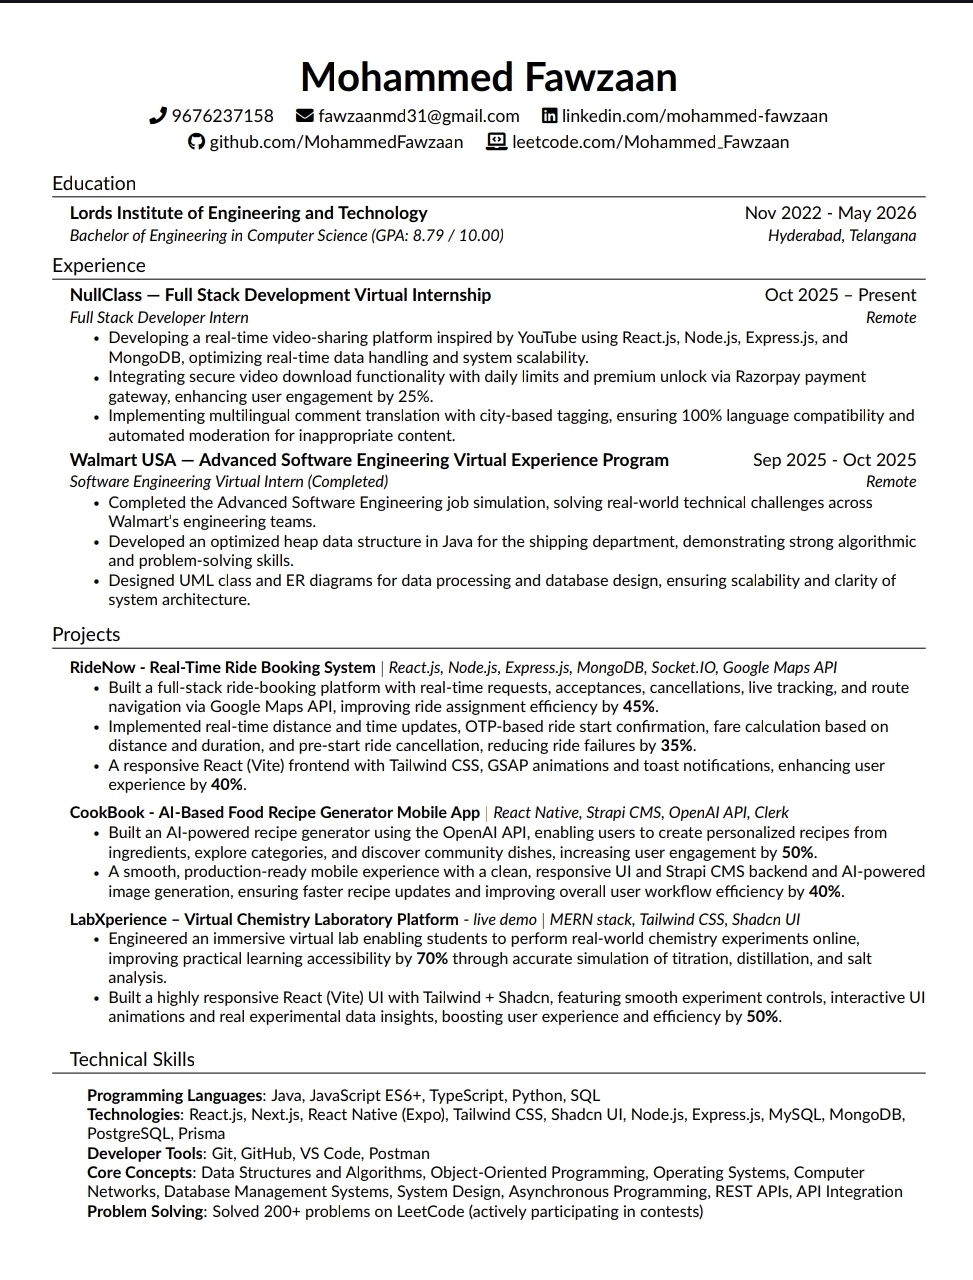
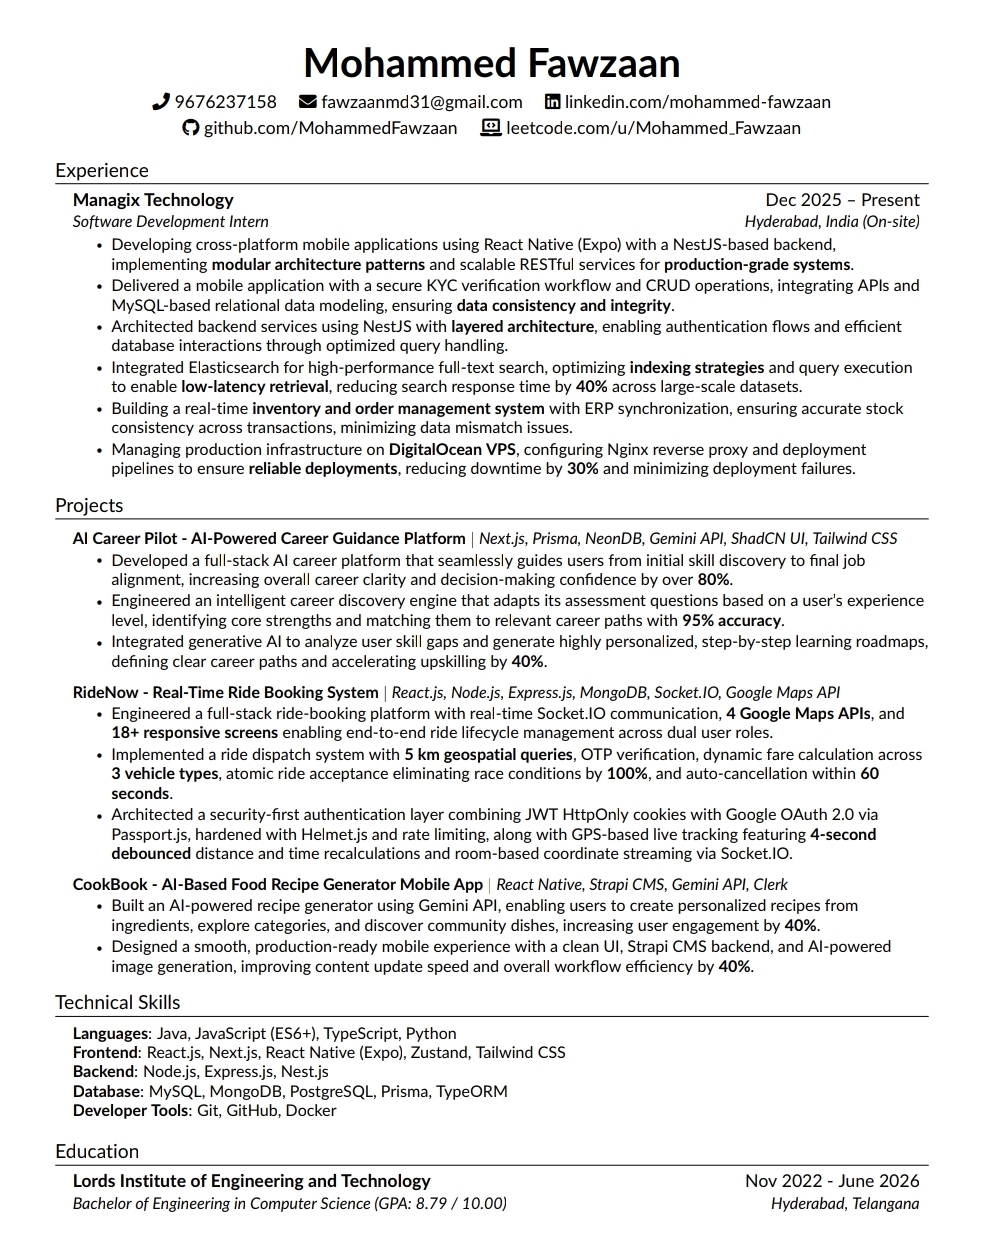
Portfolio Updated.

Changed region(s): [[0.0308, 0.0311, 0.9558, 0.9633]]

diff --git a/components/NavBar.tsx b/components/NavBar.tsx
@@ -19,9 +19,8 @@ export default function NavBar({ navLinks }: NavBarProps) {
 
   return (
     <motion.header
-      className={`fixed top-0 w-full z-50 transition-all duration-300 ${
-        isScrolled ? "bg-background/85 backdrop-blur-md shadow-sm py-4" : "bg-transparent py-6"
-      }`}
+      className={`fixed top-0 w-full z-50 transition-all duration-300 ${isScrolled ? "bg-background border-b border-border shadow-sm py-4" : "bg-background py-6"
+        }`}
       initial={{ y: -100 }}
       animate={{ y: 0 }}
       transition={{ duration: 0.5 }}
@@ -45,8 +44,12 @@ export default function NavBar({ navLinks }: NavBarProps) {
         </nav>
 
         {/* Mobile Toggle */}
-        <button className="lg:hidden text-primary-text" onClick={() => setIsOpen(!isOpen)}>
-          {isOpen ? <X size={24} /> : <Menu size={24} />}
+        <button
+          className="lg:hidden p-2 text-primary-text cursor-pointer relative z-50"
+          onClick={() => setIsOpen(!isOpen)}
+          aria-label="Toggle Menu"
+        >
+          {isOpen ? <X size={28} /> : <Menu size={28} />}
         </button>
       </div>
 
@@ -54,7 +57,7 @@ export default function NavBar({ navLinks }: NavBarProps) {
       <AnimatePresence>
         {isOpen && (
           <motion.div
-            className="lg:hidden absolute top-full left-0 w-full bg-background/95 backdrop-blur-xl border-t border-border shadow-md"
+            className="lg:hidden absolute top-full left-0 w-full bg-background border-b border-border shadow-xl overflow-hidden"
             initial={{ opacity: 0, height: 0 }}
             animate={{ opacity: 1, height: "auto" }}
             exit={{ opacity: 0, height: 0 }}

diff --git a/components/ResumeSection.tsx b/components/ResumeSection.tsx
@@ -7,7 +7,7 @@ export default function ResumeSection() {
   return (
     <section id="resume" className="py-12 bg-transparent relative">
       <div className="max-w-4xl mx-auto px-6 lg:px-8 text-center flex flex-col items-center">
-        <motion.h3 
+        <motion.h3
           initial={{ opacity: 0, y: 30 }}
           whileInView={{ opacity: 1, y: 0 }}
           viewport={{ once: true }}
@@ -17,24 +17,25 @@ export default function ResumeSection() {
           Resume
         </motion.h3>
 
-        <motion.div 
+        <motion.div
           initial={{ opacity: 0, scale: 0.95 }}
           whileInView={{ opacity: 1, scale: 1 }}
           viewport={{ once: true }}
           transition={{ duration: 0.5 }}
           className="relative w-full max-w-2xl aspect-[1/1.4] border border-border shadow-[0_0_30px_rgba(59,130,246,0.12)] mb-12 overflow-hidden rounded-xl bg-surface/50 backdrop-blur-sm"
         >
-          <Image 
-            src="/resume.jpeg" 
-            alt="Mohammed Fawzaan Resume Preview" 
-            fill 
+          <Image
+            src="/resume.jpeg?v=last_update"
+            alt="Mohammed Fawzaan Resume Preview"
+            fill
+            unoptimized={true}
             className="object-contain"
             sizes="(max-width: 768px) 100vw, 800px"
           />
         </motion.div>
 
-        <motion.a 
-          href="/Resume7.pdf" 
+        <motion.a
+          href="/Resume.pdf?v=last_update"
           download="Mohammed_Fawzaan_Resume.pdf"
           initial={{ opacity: 0, y: 20 }}
           whileInView={{ opacity: 1, y: 0 }}

diff --git a/app/page.tsx b/app/page.tsx
@@ -23,7 +23,7 @@ export default function Home() {
     { name: "Projects", href: "#projects" },
     { name: "Experience", href: "#experience" },
     { name: "Profiles", href: "#coding-profiles" },
-    { name: "Certificates", href: "#certificates" },
+    // { name: "Certificates", href: "#certificates" },
     { name: "Resume", href: "#resume" },
     { name: "Contact", href: "#contact" },
   ];
@@ -40,7 +40,7 @@ export default function Home() {
         <Projects projects={data.projects} />
         <CodingProfiles profiles={data.codingProfiles} />
         <Education education={data.education} />
-        <Certificates certificates={data.certificates} />
+        {/* <Certificates certificates={data.certificates} /> */}
         <ResumeSection />
         <Contact contact={data.contact} />
       </main>

diff --git a/components/CodingProfiles.tsx b/components/CodingProfiles.tsx
@@ -143,7 +143,7 @@ export default function CodingProfiles({ profiles }: { profiles: ProfileItem[] }
                             src={imgSrc} 
                             alt={`${profile.name} Dashboard`} 
                             fill 
-                            className="object-cover" 
+                            className="object-contain" 
                           />
                         </div>
                       </div>
